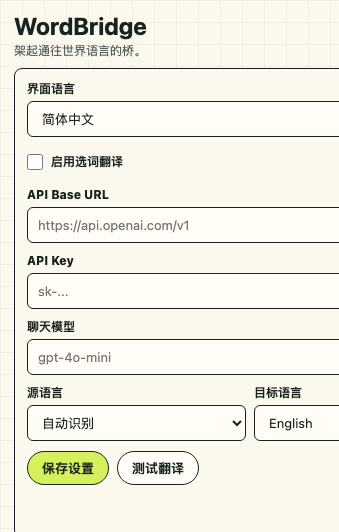
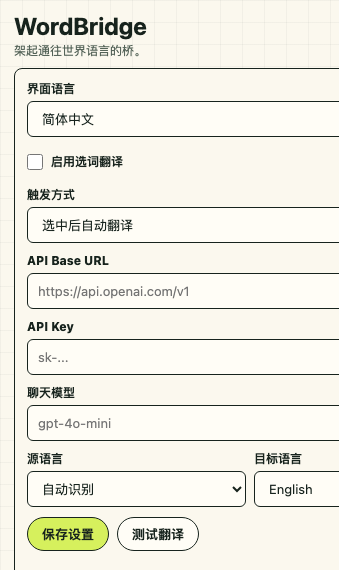
Add configurable translation trigger

Changed region(s): [[0.059, 0.2406, 1.0, 0.9925], [0.0295, 0.0301, 1.0, 0.2406]]

diff --git a/options.js b/options.js
@@ -1,5 +1,6 @@
 const DEFAULT_SETTINGS = {
   enabled: true,
+  triggerMode: "selection",
   baseUrl: "https://api.openai.com/v1",
   apiKey: "",
   model: "gpt-4o-mini",
@@ -15,6 +16,10 @@ const I18N = {
     "heroDesc": "架起通往世界语言的桥。",
     "uiLanguage": "界面语言",
     "extensionEnabled": "启用选词翻译",
+    "triggerMode": "触发方式",
+    "triggerSelection": "选中后自动翻译",
+    "triggerModifierSelection": "按住 Ctrl/⌘ 选中",
+    "triggerModifierDoubleClick": "按住 Ctrl/⌘ 双击",
     "apiBaseUrl": "API Base URL",
     "apiKey": "API Key",
     "chatModel": "聊天模型",
@@ -35,6 +40,10 @@ const I18N = {
     "heroDesc": "架起通往世界語言的橋。",
     "uiLanguage": "介面語言",
     "extensionEnabled": "啟用選詞翻譯",
+    "triggerMode": "觸發方式",
+    "triggerSelection": "選取後自動翻譯",
+    "triggerModifierSelection": "按住 Ctrl/⌘ 選取",
+    "triggerModifierDoubleClick": "按住 Ctrl/⌘ 雙擊",
     "apiBaseUrl": "API Base URL",
     "apiKey": "API Key",
     "chatModel": "聊天模型",
@@ -55,6 +64,10 @@ const I18N = {
     "heroDesc": "A bridge to the world through language.",
     "uiLanguage": "Interface language",
     "extensionEnabled": "Enable selection lookup",
+    "triggerMode": "Trigger",
+    "triggerSelection": "Translate on selection",
+    "triggerModifierSelection": "Hold Ctrl/⌘ and select",
+    "triggerModifierDoubleClick": "Hold Ctrl/⌘ and double-click",
     "apiBaseUrl": "API Base URL",
     "apiKey": "API Key",
     "chatModel": "Chat model",
@@ -75,6 +88,10 @@ const I18N = {
     "heroDesc": "言葉で世界へ橋をかける。",
     "uiLanguage": "表示言語",
     "extensionEnabled": "選択翻訳を有効にする",
+    "triggerMode": "起動方法",
+    "triggerSelection": "選択時に自動翻訳",
+    "triggerModifierSelection": "Ctrl/⌘ を押しながら選択",
+    "triggerModifierDoubleClick": "Ctrl/⌘ を押しながらダブルクリック",
     "apiBaseUrl": "API Base URL",
     "apiKey": "API Key",
     "chatModel": "チャットモデル",
@@ -95,6 +112,10 @@ const I18N = {
     "heroDesc": "언어로 세계를 잇는 다리.",
     "uiLanguage": "화면 언어",
     "extensionEnabled": "선택 번역 사용",
+    "triggerMode": "실행 방식",
+    "triggerSelection": "선택하면 자동 번역",
+    "triggerModifierSelection": "Ctrl/⌘ 누르고 선택",
+    "triggerModifierDoubleClick": "Ctrl/⌘ 누르고 더블 클릭",
     "apiBaseUrl": "API Base URL",
     "apiKey": "API Key",
     "chatModel": "채팅 모델",
@@ -115,6 +136,10 @@ const I18N = {
     "heroDesc": "Un pont vers le monde par les langues.",
     "uiLanguage": "Langue de l’interface",
     "extensionEnabled": "Activer la sélection",
+    "triggerMode": "Déclencheur",
+    "triggerSelection": "Traduire à la sélection",
+    "triggerModifierSelection": "Maintenir Ctrl/⌘ et sélectionner",
+    "triggerModifierDoubleClick": "Maintenir Ctrl/⌘ et double-cliquer",
     "apiBaseUrl": "API Base URL",
     "apiKey": "API Key",
     "chatModel": "Modèle de chat",
@@ -135,6 +160,10 @@ const I18N = {
     "heroDesc": "Eine Brücke zur Welt durch Sprache.",
     "uiLanguage": "Oberflächensprache",
     "extensionEnabled": "Auswahlübersetzung aktivieren",
+    "triggerMode": "Auslöser",
+    "triggerSelection": "Beim Markieren übersetzen",
+    "triggerModifierSelection": "Ctrl/⌘ halten und markieren",
+    "triggerModifierDoubleClick": "Ctrl/⌘ halten und doppelklicken",
     "apiBaseUrl": "API Base URL",
     "apiKey": "API Key",
     "chatModel": "Chatmodell",
@@ -155,6 +184,10 @@ const I18N = {
     "heroDesc": "Un puente al mundo a través del idioma.",
     "uiLanguage": "Idioma de la interfaz",
     "extensionEnabled": "Activar selección",
+    "triggerMode": "Activación",
+    "triggerSelection": "Traducir al seleccionar",
+    "triggerModifierSelection": "Mantener Ctrl/⌘ y seleccionar",
+    "triggerModifierDoubleClick": "Mantener Ctrl/⌘ y doble clic",
     "apiBaseUrl": "API Base URL",
     "apiKey": "API Key",
     "chatModel": "Modelo de chat",
@@ -175,6 +208,10 @@ const I18N = {
     "heroDesc": "Uma ponte para o mundo por meio dos idiomas.",
     "uiLanguage": "Idioma da interface",
     "extensionEnabled": "Ativar seleção",
+    "triggerMode": "Acionamento",
+    "triggerSelection": "Traduzir ao selecionar",
+    "triggerModifierSelection": "Segurar Ctrl/⌘ e selecionar",
+    "triggerModifierDoubleClick": "Segurar Ctrl/⌘ e clicar duas vezes",
     "apiBaseUrl": "API Base URL",
     "apiKey": "API Key",
     "chatModel": "Modelo de chat",
@@ -195,6 +232,10 @@ const I18N = {
     "heroDesc": "Un ponte verso il mondo attraverso le lingue.",
     "uiLanguage": "Lingua interfaccia",
     "extensionEnabled": "Attiva selezione",
+    "triggerMode": "Attivazione",
+    "triggerSelection": "Traduci alla selezione",
+    "triggerModifierSelection": "Tieni Ctrl/⌘ e seleziona",
+    "triggerModifierDoubleClick": "Tieni Ctrl/⌘ e doppio clic",
     "apiBaseUrl": "API Base URL",
     "apiKey": "API Key",
     "chatModel": "Modello chat",
@@ -215,6 +256,10 @@ const I18N = {
     "heroDesc": "Мост к миру через языки.",
     "uiLanguage": "Язык интерфейса",
     "extensionEnabled": "Включить перевод выделения",
+    "triggerMode": "Запуск",
+    "triggerSelection": "Переводить при выделении",
+    "triggerModifierSelection": "Удерживать Ctrl/⌘ и выделить",
+    "triggerModifierDoubleClick": "Удерживать Ctrl/⌘ и дважды щелкнуть",
     "apiBaseUrl": "API Base URL",
     "apiKey": "API Key",
     "chatModel": "Чат-модель",
@@ -235,6 +280,10 @@ const I18N = {
     "heroDesc": "جسر إلى العالم عبر اللغات.",
     "uiLanguage": "لغة الواجهة",
     "extensionEnabled": "تفعيل ترجمة التحديد",
+    "triggerMode": "طريقة التشغيل",
+    "triggerSelection": "الترجمة عند التحديد",
+    "triggerModifierSelection": "اضغط Ctrl/⌘ وحدد النص",
+    "triggerModifierDoubleClick": "اضغط Ctrl/⌘ وانقر مرتين",
     "apiBaseUrl": "API Base URL",
     "apiKey": "API Key",
     "chatModel": "نموذج المحادثة",
@@ -255,6 +304,10 @@ const I18N = {
     "heroDesc": "भाषाओं के ज़रिए दुनिया तक एक पुल।",
     "uiLanguage": "इंटरफ़ेस भाषा",
     "extensionEnabled": "चयन अनुवाद चालू करें",
+    "triggerMode": "ट्रिगर",
+    "triggerSelection": "चयन पर अनुवाद",
+    "triggerModifierSelection": "Ctrl/⌘ दबाकर चुनें",
+    "triggerModifierDoubleClick": "Ctrl/⌘ दबाकर डबल-क्लिक करें",
     "apiBaseUrl": "API Base URL",
     "apiKey": "API Key",
     "chatModel": "चैट मॉडल",
@@ -275,6 +328,10 @@ const I18N = {
     "heroDesc": "Cây cầu đến thế giới qua ngôn ngữ.",
     "uiLanguage": "Ngôn ngữ giao diện",
     "extensionEnabled": "Bật tra cứu vùng chọn",
+    "triggerMode": "Cách kích hoạt",
+    "triggerSelection": "Dịch khi chọn",
+    "triggerModifierSelection": "Giữ Ctrl/⌘ và chọn",
+    "triggerModifierDoubleClick": "Giữ Ctrl/⌘ và nhấp đúp",
     "apiBaseUrl": "API Base URL",
     "apiKey": "API Key",
     "chatModel": "Mô hình chat",
@@ -295,6 +352,10 @@ const I18N = {
     "heroDesc": "สะพานสู่โลกผ่านภาษา",
     "uiLanguage": "ภาษาอินเทอร์เฟซ",
     "extensionEnabled": "เปิดใช้การแปลที่เลือก",
+    "triggerMode": "วิธีเรียกใช้",
+    "triggerSelection": "แปลเมื่อเลือกข้อความ",
+    "triggerModifierSelection": "กด Ctrl/⌘ ค้างแล้วเลือก",
+    "triggerModifierDoubleClick": "กด Ctrl/⌘ ค้างแล้วดับเบิลคลิก",
     "apiBaseUrl": "API Base URL",
     "apiKey": "API Key",
     "chatModel": "โมเดลแชต",
@@ -400,6 +461,7 @@ async function loadSettings() {
 async function saveSettings(options = {}) {
   const settings = {
     enabled: form.elements.enabled.checked,
+    triggerMode: form.elements.triggerMode.value,
     baseUrl: form.elements.baseUrl.value.trim().replace(/\/+$/, ""),
     apiKey: form.elements.apiKey.value.trim(),
     model: form.elements.model.value.trim(),

diff --git a/content.js b/content.js
@@ -3,14 +3,22 @@ let selectionTimer = null;
 let activeRequest = 0;
 let currentAudio = null;
 let wordBridgeEnabled = true;
+let triggerMode = "selection";
 
 loadEnabledState();
 
 if (globalThis.chrome?.storage?.onChanged) {
   chrome.storage.onChanged.addListener((changes, areaName) => {
-    if (areaName !== "sync" || !changes.enabled) return;
-    wordBridgeEnabled = changes.enabled.newValue !== false;
-    if (!wordBridgeEnabled) closeCard();
+    if (areaName !== "sync") return;
+
+    if (changes.enabled) {
+      wordBridgeEnabled = changes.enabled.newValue !== false;
+      if (!wordBridgeEnabled) closeCard();
+    }
+
+    if (changes.triggerMode) {
+      triggerMode = normalizeTriggerMode(changes.triggerMode.newValue);
+    }
   });
 }
 
@@ -18,14 +26,16 @@ async function loadEnabledState() {
   if (!globalThis.chrome?.storage?.sync) return;
 
   try {
-    const saved = await chrome.storage.sync.get({ enabled: true });
+    const saved = await chrome.storage.sync.get({ enabled: true, triggerMode: "selection" });
     wordBridgeEnabled = saved.enabled !== false;
+    triggerMode = normalizeTriggerMode(saved.triggerMode);
     if (!wordBridgeEnabled) closeCard();
   } catch {
     wordBridgeEnabled = true;
   }
 }
 document.addEventListener("mouseup", scheduleSelectionLookup);
+document.addEventListener("dblclick", scheduleSelectionLookup);
 document.addEventListener("keyup", (event) => {
   if (event.key === "Escape") {
     closeCard();
@@ -35,7 +45,7 @@ document.addEventListener("keyup", (event) => {
 });
 
 function scheduleSelectionLookup(event) {
-  if (!wordBridgeEnabled) return;
+  if (!wordBridgeEnabled || !shouldTranslateForEvent(event)) return;
 
   const root = document.getElementById(ROOT_ID);
   if (root && event?.composedPath?.().includes(root)) return;
@@ -56,6 +66,32 @@ function scheduleSelectionLookup(event) {
     openCard({ state: "loading", source: selected, rect, selectionKind });
     requestTranslation(selected, rect, selectionKind).catch(() => {});
   }, 260);
+}
+
+function shouldTranslateForEvent(event) {
+  if (!event) return triggerMode === "selection";
+
+  if (triggerMode === "selection") {
+    return event.type !== "dblclick";
+  }
+
+  if (triggerMode === "modifier-selection") {
+    return event.type === "mouseup" && isModifierPressed(event);
+  }
+
+  if (triggerMode === "modifier-double-click") {
+    return event.type === "dblclick" && isModifierPressed(event);
+  }
+
+  return false;
+}
+
+function isModifierPressed(event) {
+  return Boolean(event?.ctrlKey || event?.metaKey);
+}
+
+function normalizeTriggerMode(value) {
+  return ["selection", "modifier-selection", "modifier-double-click"].includes(value) ? value : "selection";
 }
 
 async function requestTranslation(text, rect, selectionKind) {

diff --git a/options.html b/options.html
@@ -50,6 +50,15 @@
         </div>
 
         <label>
+          <span data-i18n="triggerMode">触发方式</span>
+          <select id="triggerMode" name="triggerMode">
+            <option value="selection" data-i18n="triggerSelection">选中后自动翻译</option>
+            <option value="modifier-selection" data-i18n="triggerModifierSelection">按住 Ctrl/⌘ 选中</option>
+            <option value="modifier-double-click" data-i18n="triggerModifierDoubleClick">按住 Ctrl/⌘ 双击</option>
+          </select>
+        </label>
+
+        <label>
           <span data-i18n="apiBaseUrl">API Base URL</span>
           <input id="baseUrl" name="baseUrl" type="url" placeholder="https://api.openai.com/v1" required>
         </label>

diff --git a/background.js b/background.js
@@ -3,6 +3,7 @@ const CACHE_MAX_ITEMS = 300;
 
 const DEFAULT_SETTINGS = {
   enabled: true,
+  triggerMode: "selection",
   baseUrl: "https://api.openai.com/v1",
   apiKey: "",
   model: "gpt-4o-mini",